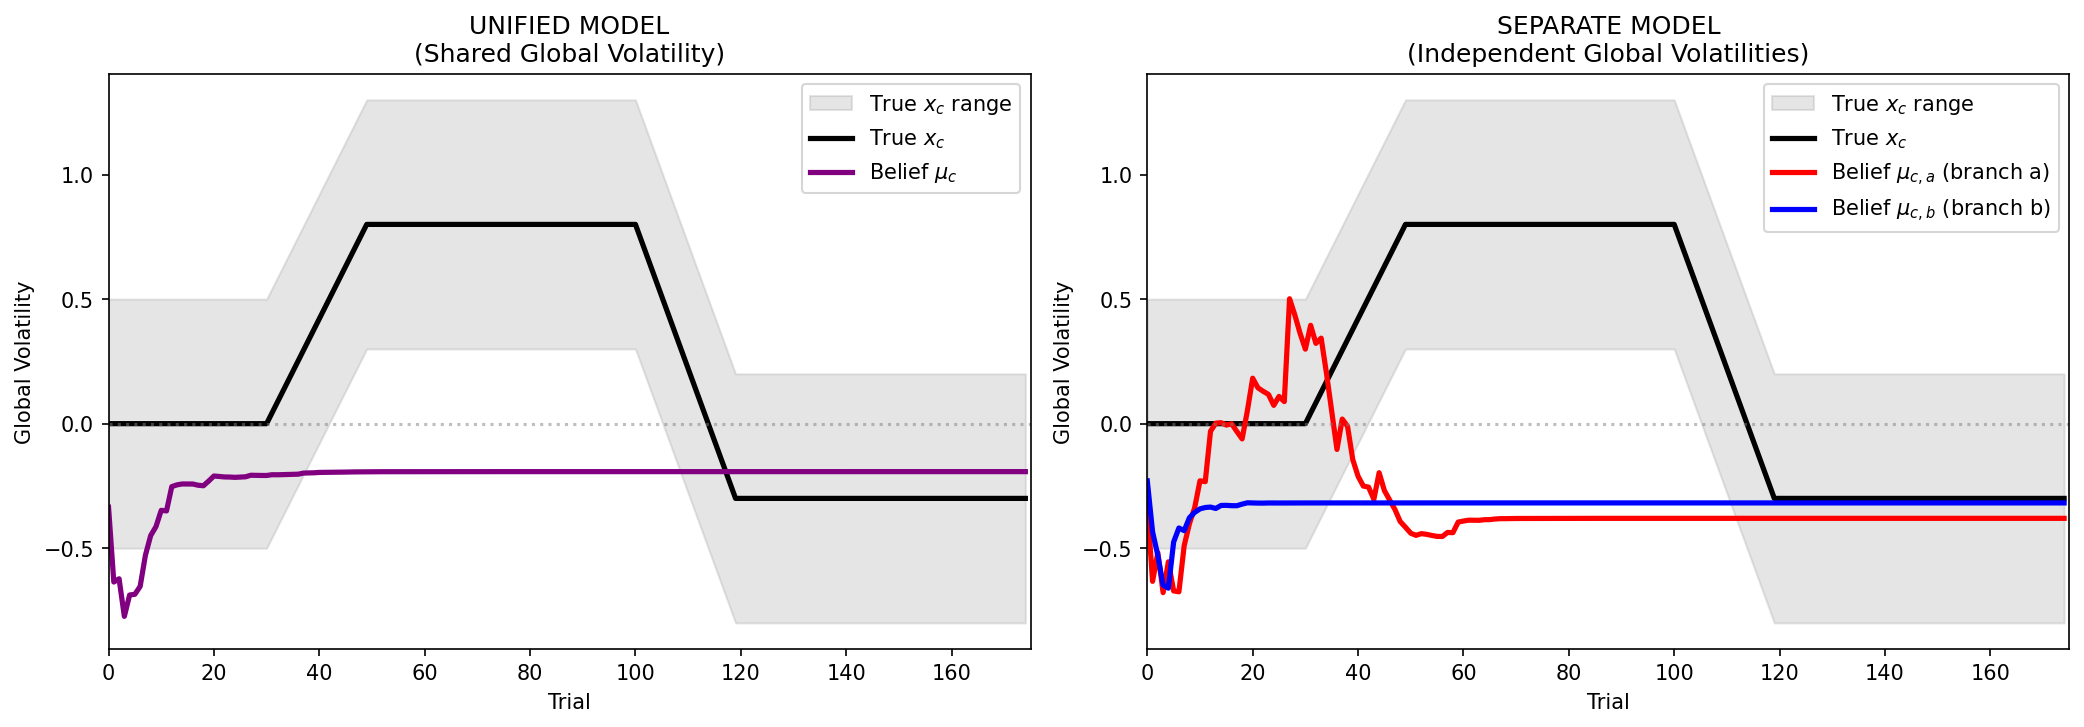
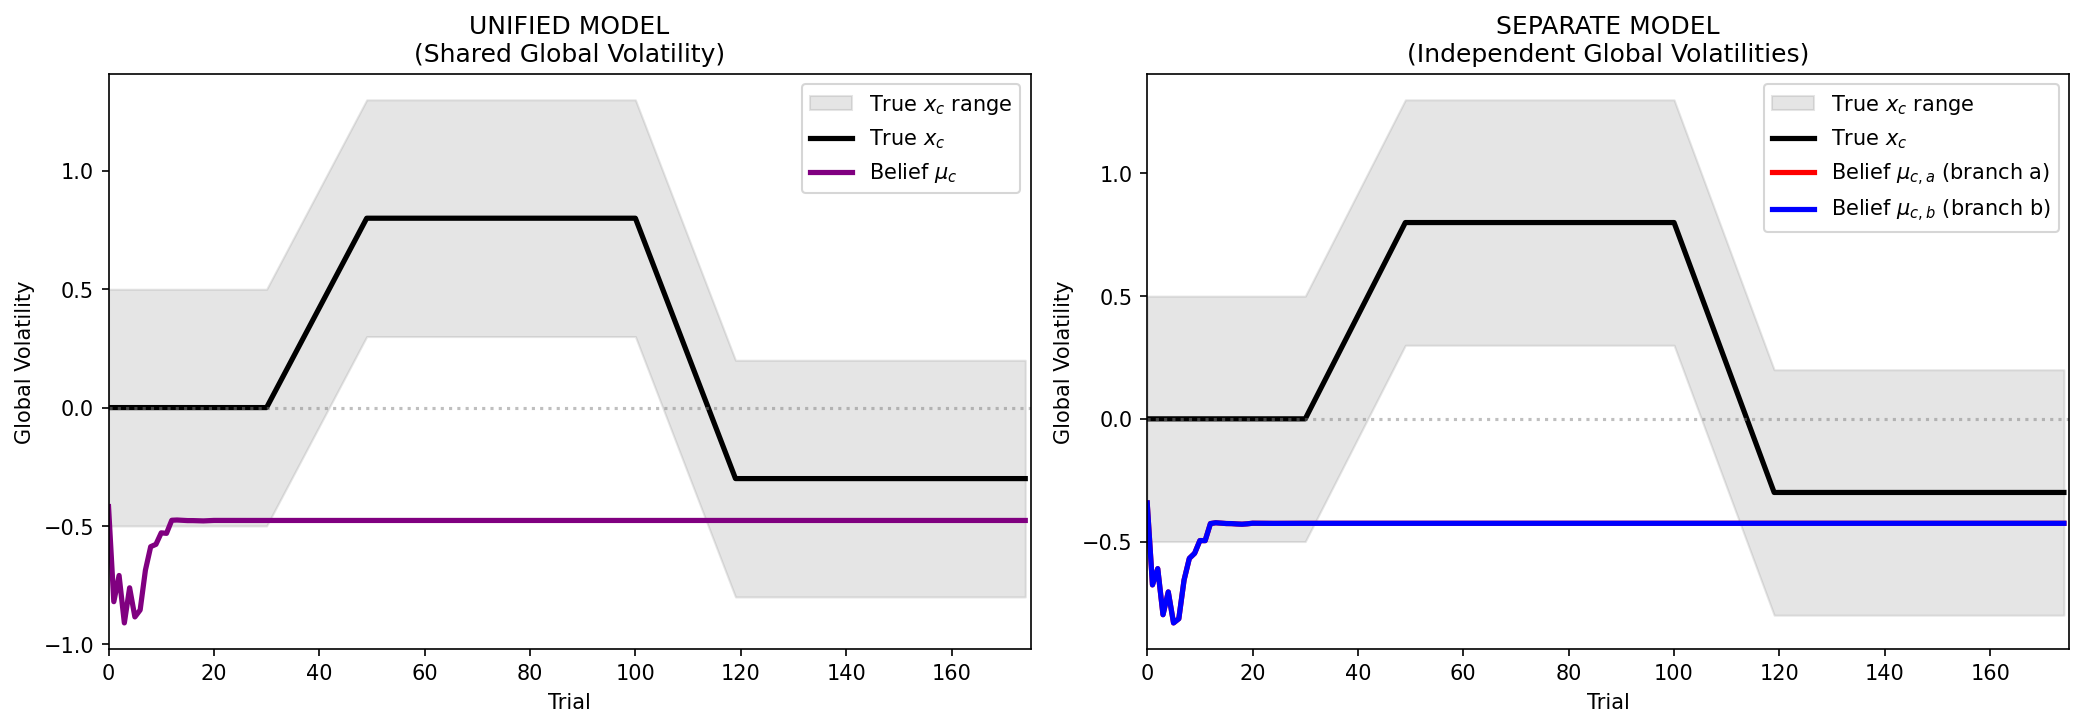
half commit

diff --git a/model0.py b/model0.py
@@ -78,7 +78,8 @@ def simulate_generative_model(n_trials: int = 175, seed: int = 42) -> dict:
 
     # observations with noise
     u_a = x_a + np.sqrt(eps_a) * np.random.randn(n_trials)
-    u_b = x_b + np.sqrt(eps_b) * np.random.randn(n_trials)
+    # u_b = x_b + np.sqrt(eps_b) * np.random.randn(n_trials)
+    u_b = u_a
 
     return {
         "x_c": x_c,
